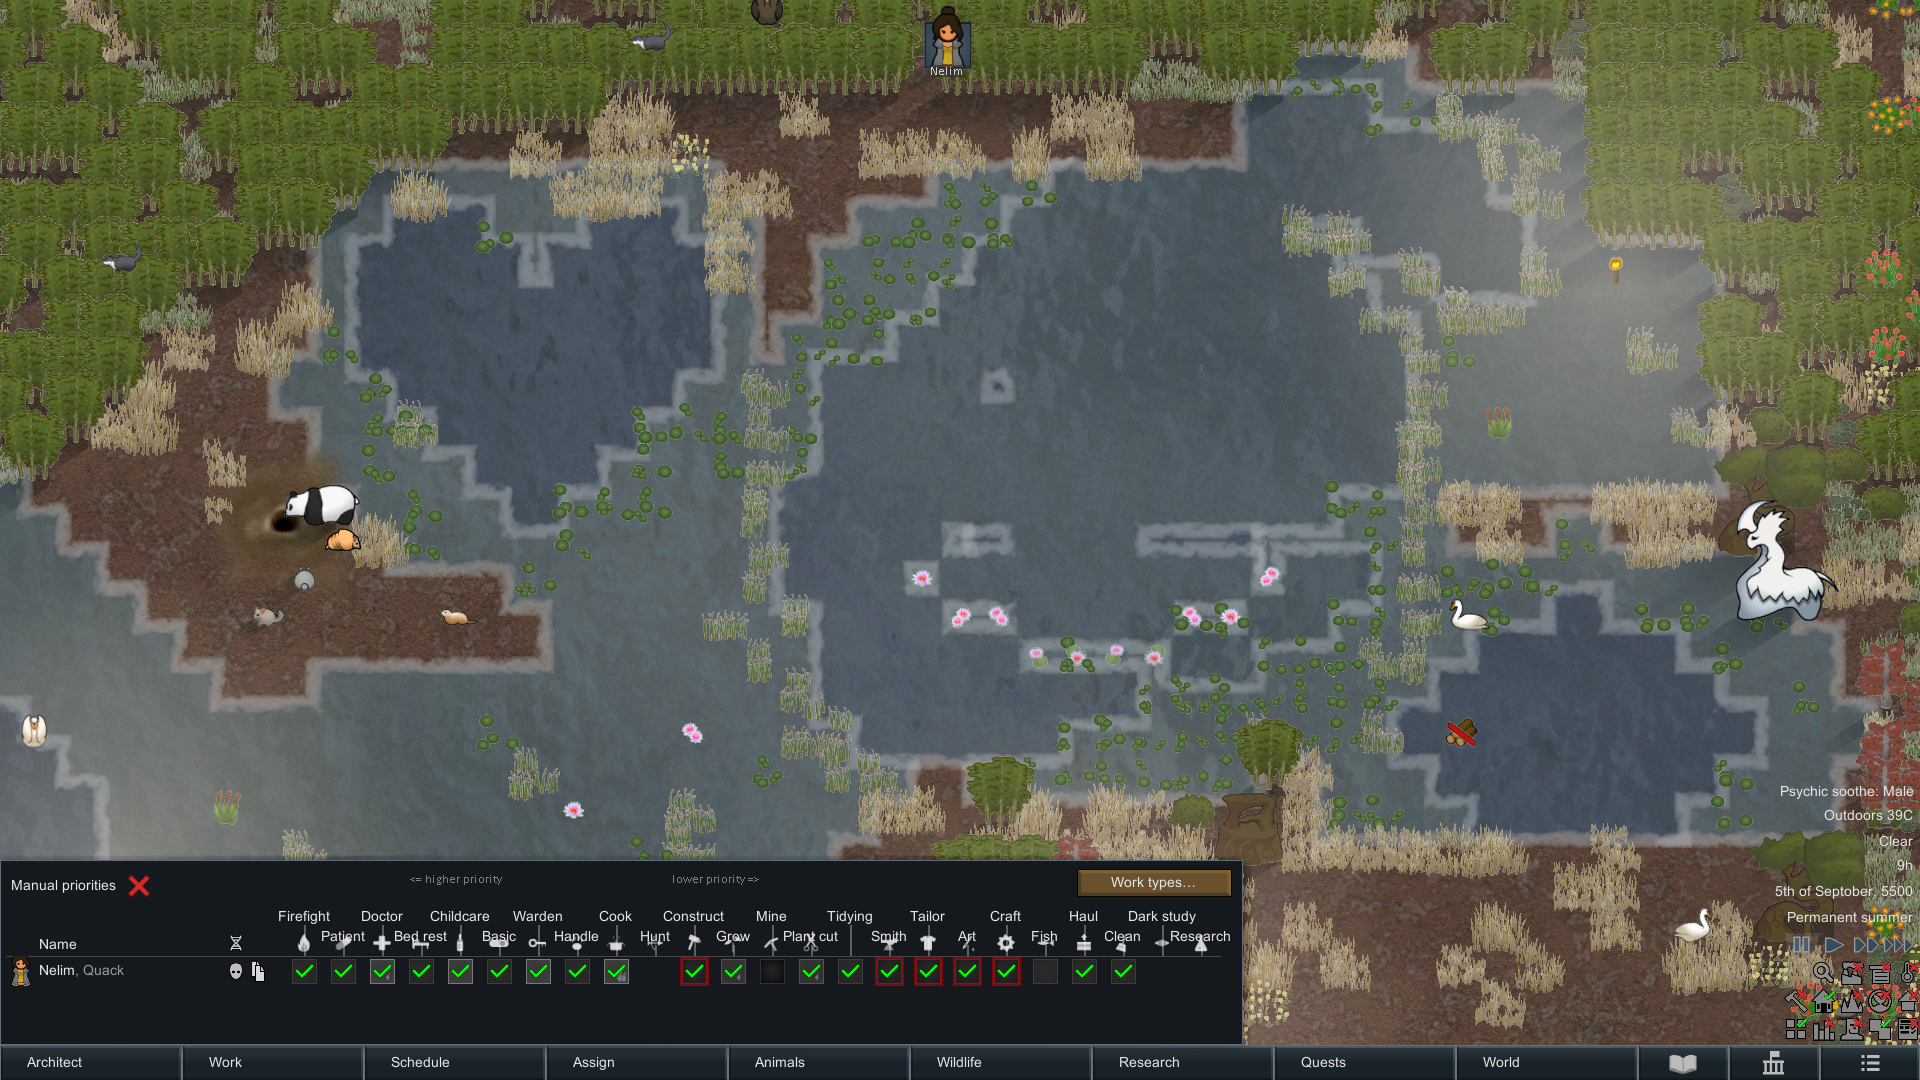
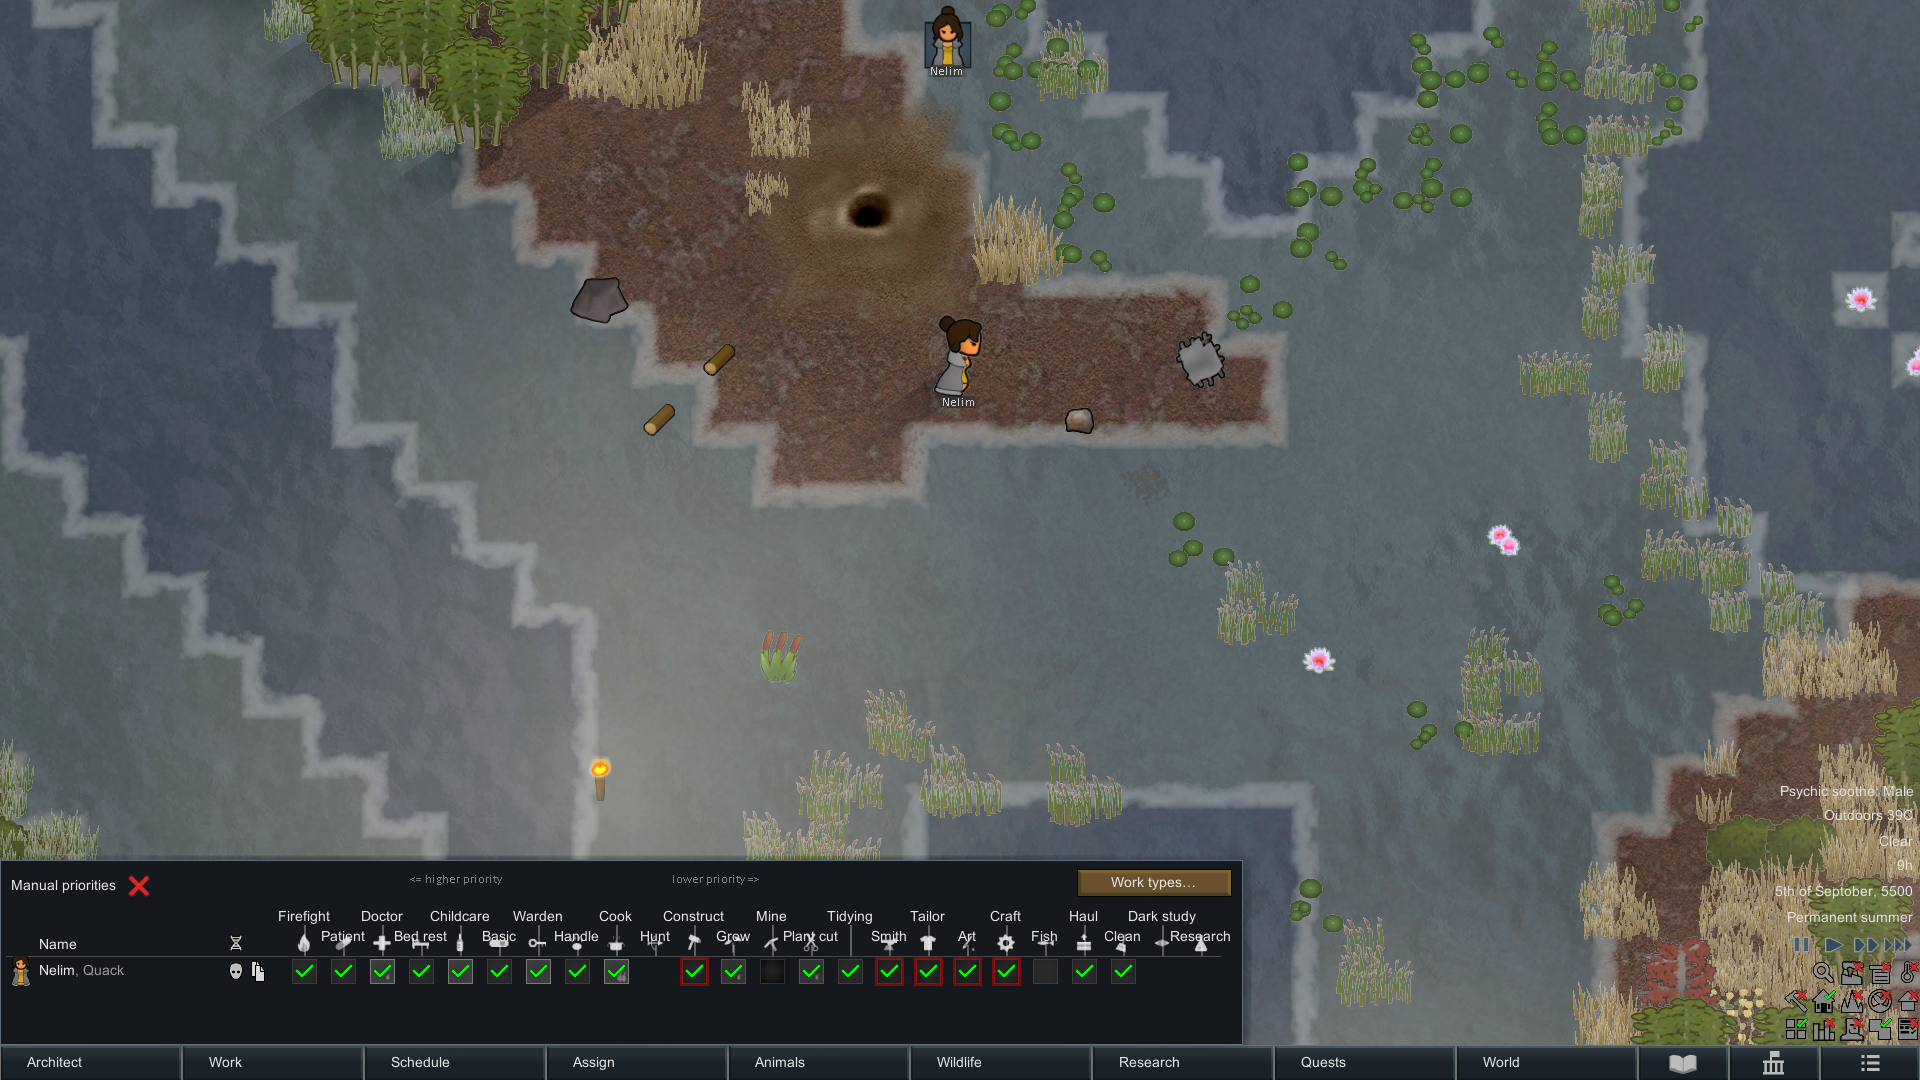
Gallery 2: Nelim tidying the shore (run 678f); STATUS names the evidence of each image

diff --git a/STATUS.md b/STATUS.md
@@ -17,7 +17,7 @@ tested_on:    2026-09-21
 workshop:     3792836684
 remaining:
   - "reviewed 2026-10-06: the two files the 2026-10-05 pass had not read, Source/UI/Dialog_WorkTypes.cs (v1.0.0..HEAD) and Source/UI/Dialog_EditWorkType.cs, read by hand while waiting on the queue (not a /code-review run): no correctness finding. Notes, not defects: the label layout caches (truncatedMiddle, laidOut) key on text and width only and never shrink; Text.CalcSize depends on the font, which every caller sets to Small first."
-  - "gallery 2026-10-06: Art/Gallery/ holds 0-preview.png and the three images of the run afa7 (WorkStudio f3d594f, sanctuary, English), read one by one: 1-early-morning-the-editor (window-backdrop-for-width), 2-morning-the-new-column (learning helper, alerts and resource list hidden by Pickle Tools steps), 3-late-morning-the-settings. Waiting for the owner to look at them and upload by hand. Open question for her: since 2026-10-06 the editor names the vanilla types by their short label (Cook, Hunt, Construct...) as the Work tab columns do, instead of the raw defName (Cooking, Hunting...)."
+  - "gallery 2026-10-06: Art/Gallery/ holds 0-preview.png and the three images of the sanctuary runs, read one by one: 1-early-morning-the-editor (window-backdrop-for-width, cropped around the window) and 3-late-morning-the-settings (window-backdrop-for-height, cropped), both from run 87ce (WorkStudio fb4adf6, evidence/gallery-3), and 2-morning-the-new-column (Nelim tidying the shore of water-garden, learning helper, alerts and resource list hidden by Pickle Tools steps), from run 678f (784b706, evidence/gallery-4). The owner approved 1; asked for a more scenic 2 and for 3 on a backdrop and cropping (done, to be looked at again). Upload by hand once she agrees. Since 2026-10-06 the editor names the vanilla types by their short label (Cook, Hunt...) as the Work tab columns do, instead of the raw defName."
   - "reviewed 2026-10-05: /code-review at low effort on v1.0.0..c8e02c6 (full SHA c8e02c647a9190ac4f58365376033f5a6ec48496), 66 files, no finding. Test and fixture hunks skipped. Not read: Source/UI/Dialog_WorkTypes.cs (538 changed lines) and Source/UI/Dialog_EditWorkType.cs; a medium or high pass would cover them."
   - "verified: 2026-09-22 minimal English, minimal French and Better Work Tab full Pickle passes each report 49 passed, 0 failed, 6 skipped; Work Type Tag reports 50 passed, 0 failed, 5 skipped. Each complete report was copied to Tests/Pickle/evidence before the shared lock was released and relevant captures were opened; the copies of the minimal English/French, Enhanced Work Tab, Work Type Tag and Better Work Tab passes were deleted on 2026-09-23 to free disk, replaced by the 2026-09-23 runs (summaries in docs/runs/2026-09-22.md and 2026-09-23.md)."
   - "defect found in visual review: the MainButtons settings dialog footer covered the English save note and hid the French note; long renamed or custom Work tab headers overlapped neighbouring headers in both languages. A larger dialog without the redundant footer button and an icon/tooltip fallback for overlong headers are built; in-game captures must confirm both before tested."
